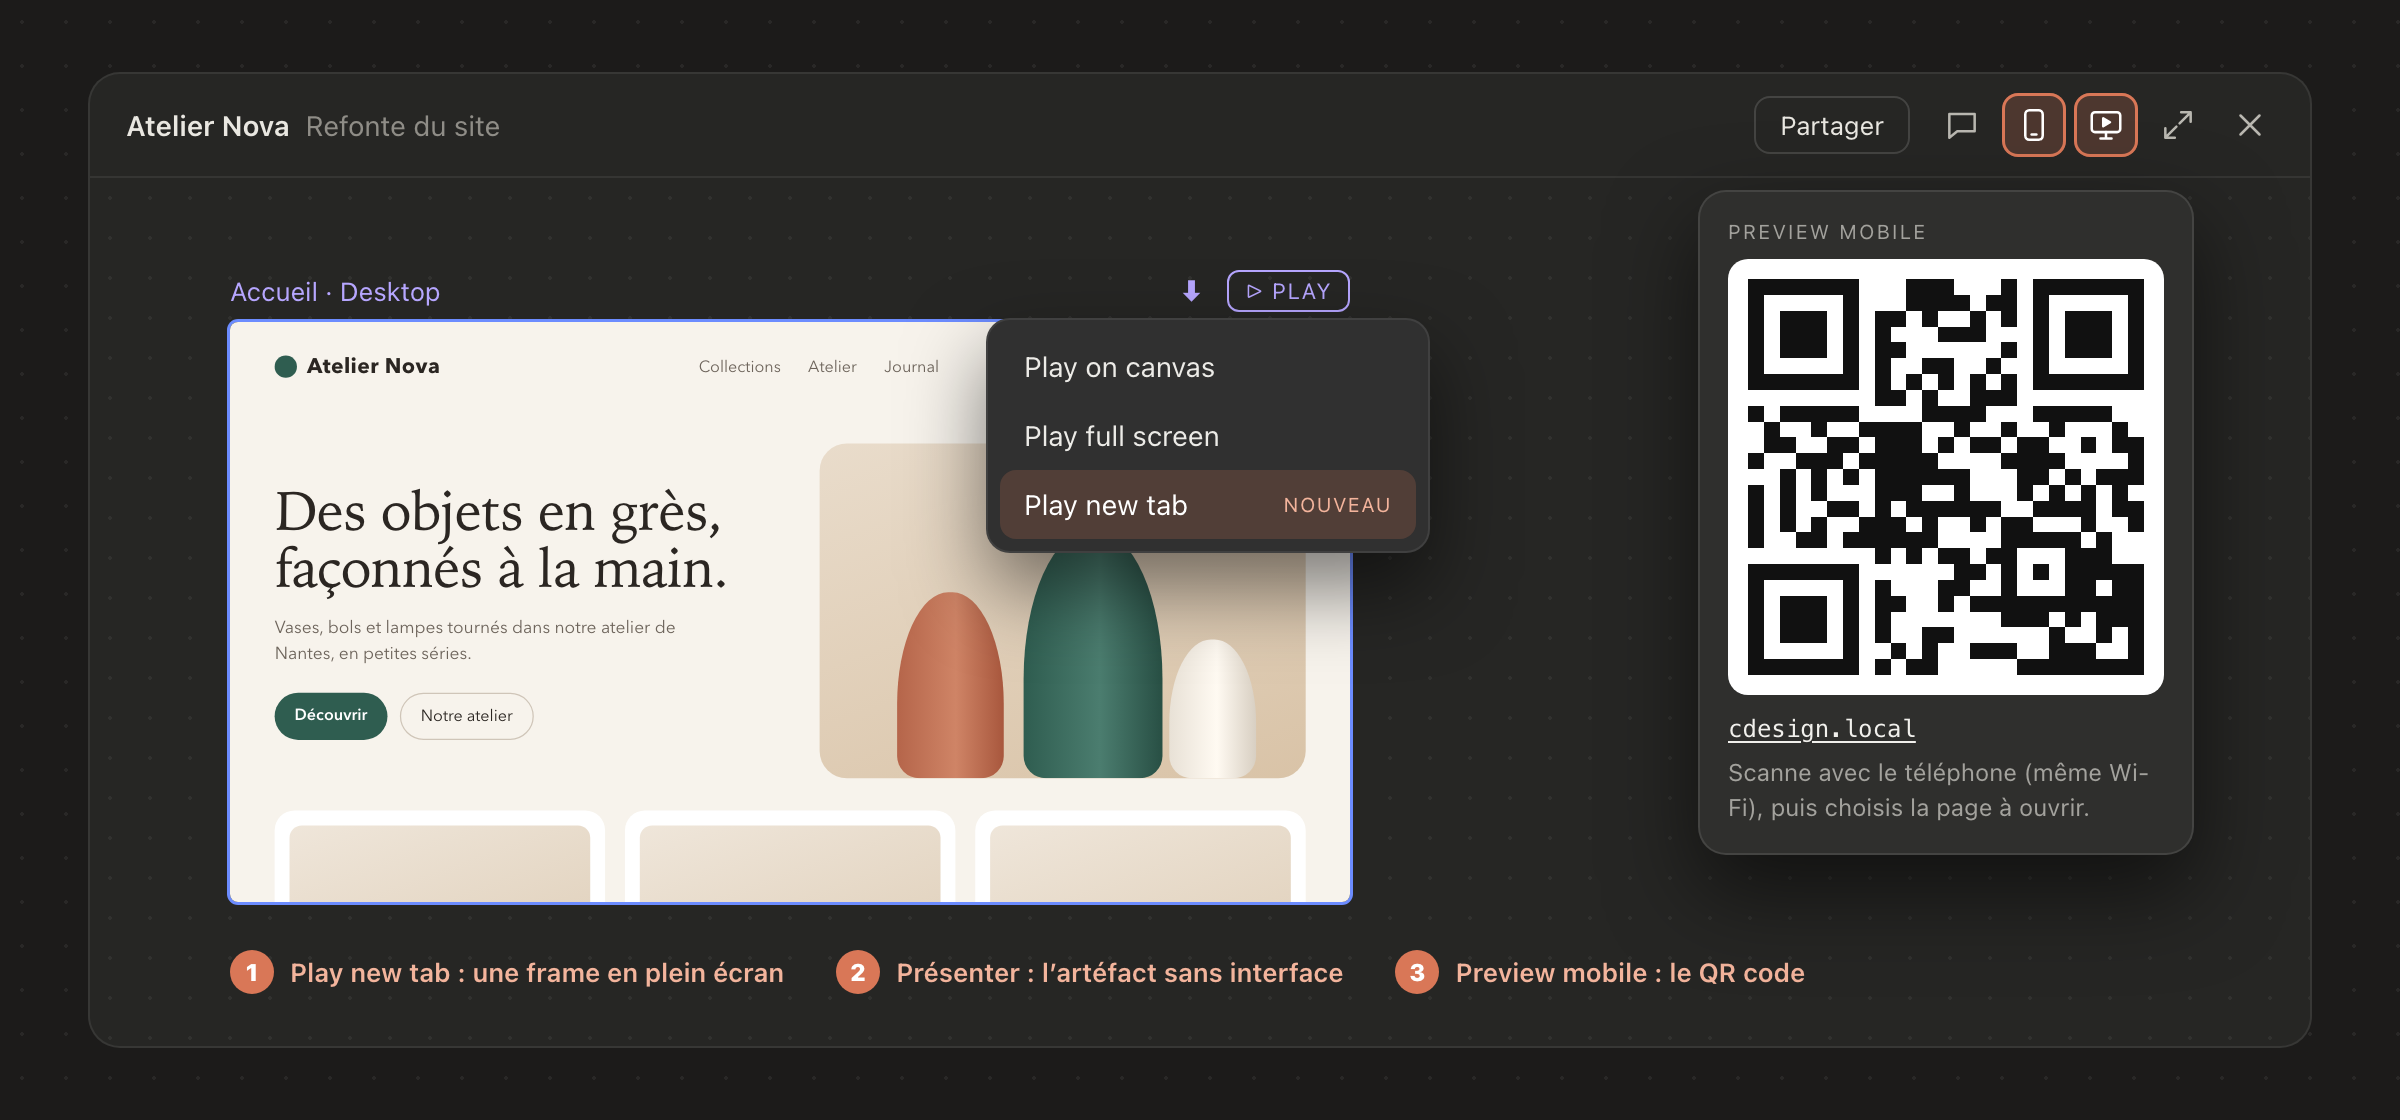
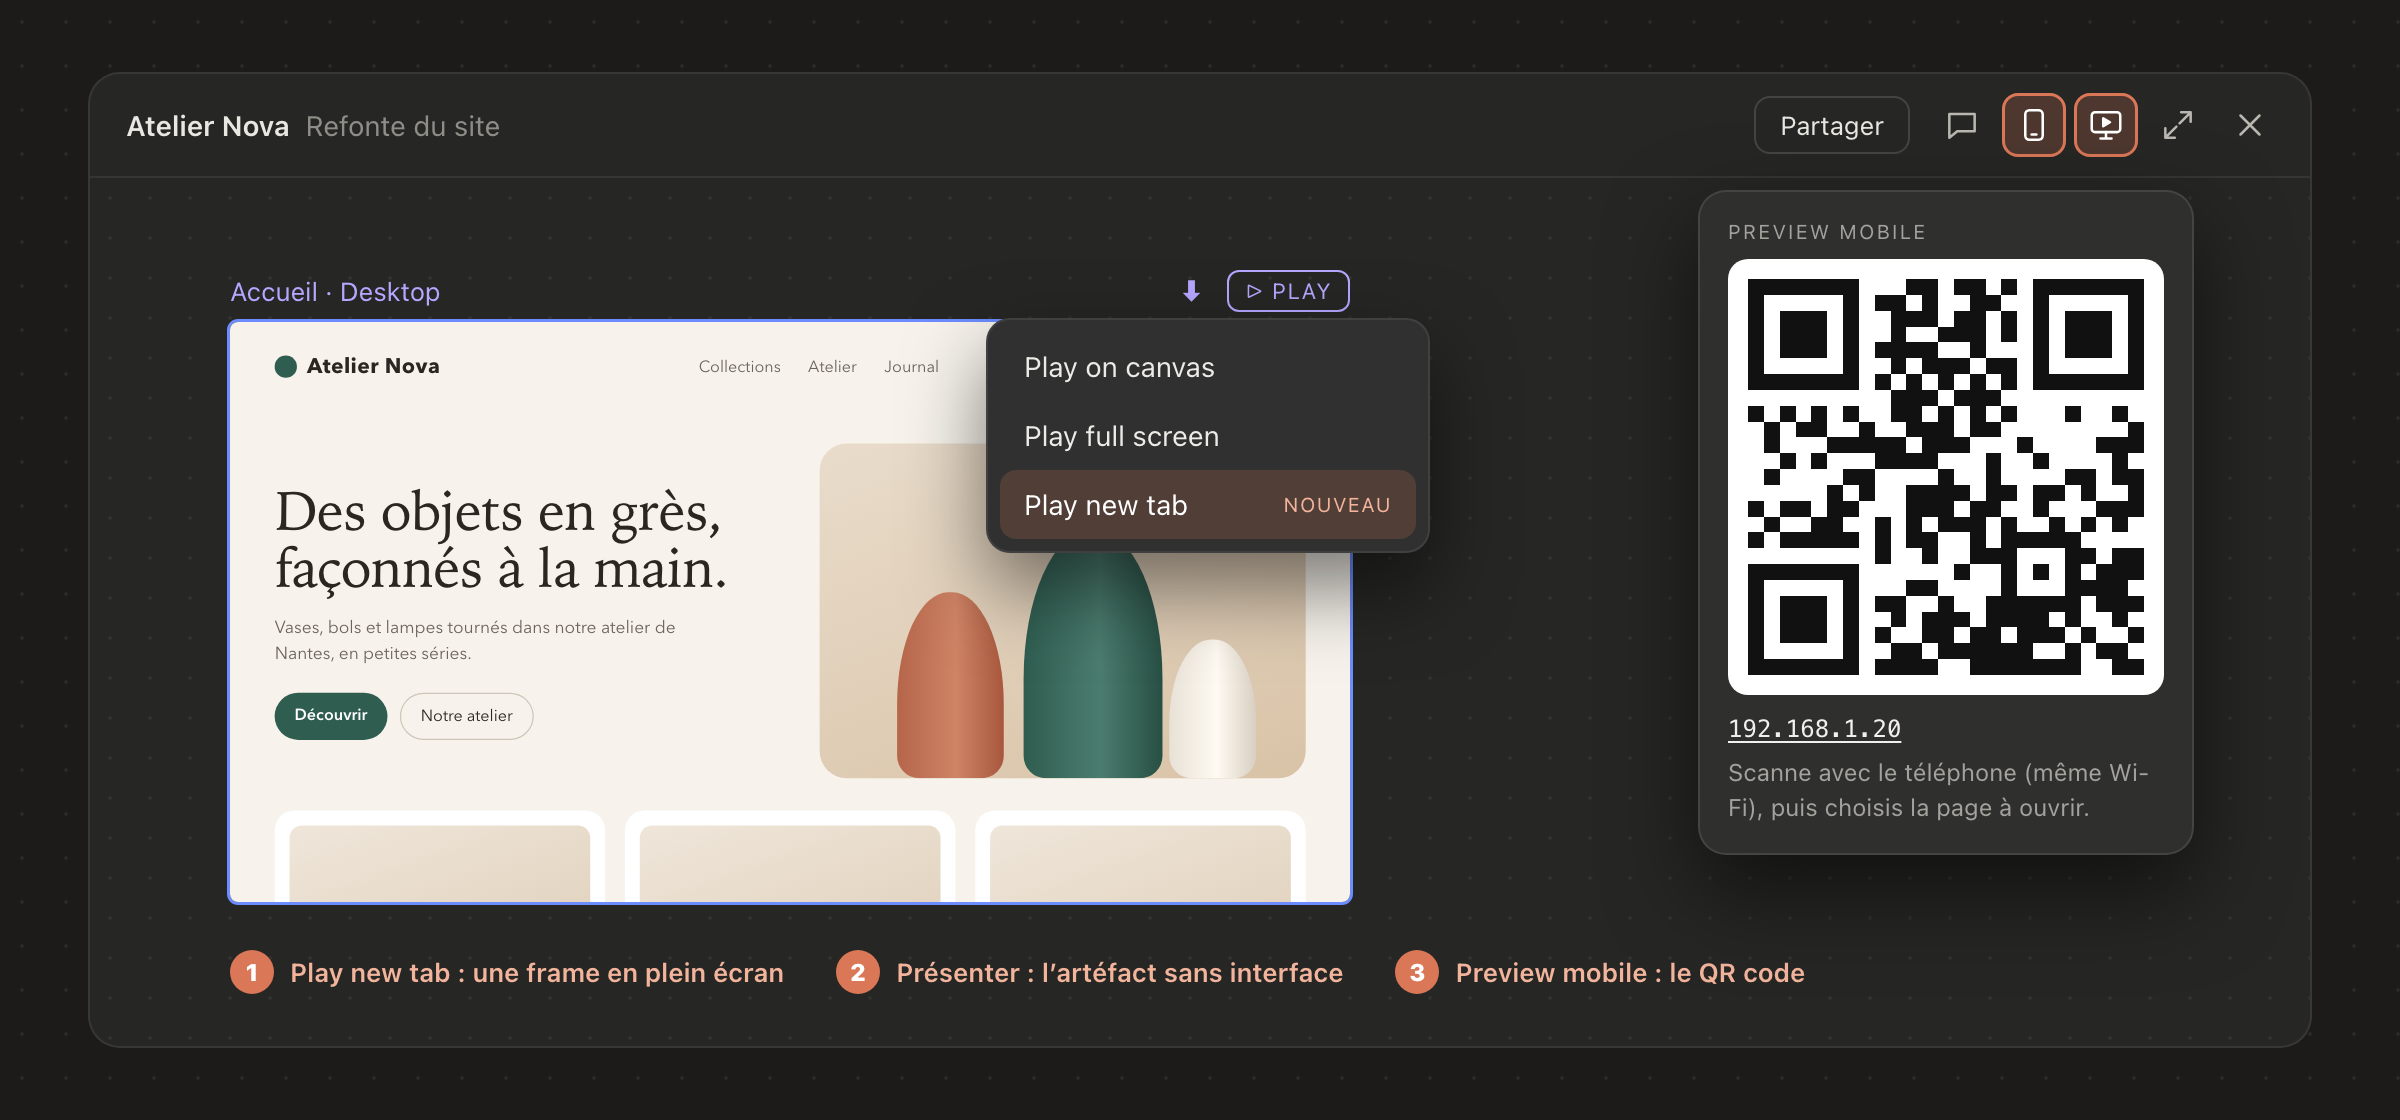
Retour à l'adresse IP : suppression de cdesign.local
Le nom .local n'était pas résolu par les autres appareils du réseau.
On garde l'adresse IP du Mac (port 80 si possible), qui marche partout :
plus de mDNS ni de dns-sd, plus de réglage de nom, dépendance
multicast-dns retirée ; README, INSTALL et visuels mis à jour.

Changed region(s): [[0.7188, 0.25, 0.9062, 0.625], [0.7188, 0.625, 0.8125, 0.6562]]

diff --git a/settings.html b/settings.html
@@ -34,10 +34,9 @@ npm start</code></pre>
       <div class="qr" id="qr" role="img" aria-label="QR code de l’accueil"></div>
       <div>
         <h2>Ouvrir sur un téléphone</h2>
-        <p class="muted">Scanne le QR code avec n’importe quel téléphone connecté au même Wi-Fi. Il marche partout, Android compris.</p>
+        <p class="muted">Scanne le QR code avec n’importe quel téléphone connecté au même Wi-Fi, ou tape l’adresse dans son navigateur.</p>
         <p class="label">Adresse à taper</p>
         <p class="url"><a id="url" href="#" target="_blank" rel="noopener"></a></p>
-        <p class="muted small" id="ip"></p>
         <div class="row">
           <button class="btn" id="copy" type="button">Copier l’adresse</button>
           <a class="btn ghost" id="open-home" href="#" target="_blank" rel="noopener">Ouvrir l’accueil</a>
@@ -48,17 +47,6 @@ npm start</code></pre>
     <!-- Réglages -->
     <section class="card">
       <h2>Réglages</h2>
-
-      <form class="field" id="host-form">
-        <label for="host">Nom de l’adresse</label>
-        <div class="inline">
-          <span class="affix">http://</span>
-          <input id="host" name="host" autocomplete="off" spellcheck="false" maxlength="40" pattern="[a-zA-Z0-9-]+" required>
-          <span class="affix">.local</span>
-          <button class="btn" type="submit">Enregistrer</button>
-        </div>
-        <p class="hint" id="host-hint">Lettres, chiffres et tirets. Après un changement, rescanne le QR code.</p>
-      </form>
 
       <div class="field">
         <label>Dossier des exports</label>

diff --git a/settings.js b/settings.js
@@ -47,14 +47,6 @@ function render(c) {
   $('url').textContent = shortUrl(c.url);
   $('url').href = c.url;
   $('open-home').href = c.url;
-  $('ip').textContent = `Adresse IP : ${shortUrl(c.ipUrl)} (si un appareil ne reconnaît pas le nom)`;
-
-  // Nom de l'adresse
-  if (document.activeElement !== $('host')) $('host').value = c.host;
-  $('host').disabled = c.hostLocked;
-  $('host-hint').textContent = c.hostLocked
-    ? 'Fixé par la variable SUPERDESIGN_HOST au lancement du serveur.'
-    : 'Lettres, chiffres et tirets. Après un changement, rescanne le QR code.';
 
   // Dossier
   $('dir').textContent = c.dir;
@@ -175,11 +167,6 @@ async function act(fn, okText) {
     busy = false;
   }
 }
-
-$('host-form').addEventListener('submit', (e) => {
-  e.preventDefault();
-  act(() => api('/api/config', { host: $('host').value }), 'Nom enregistré. Rescanne le QR code sur les téléphones.');
-});
 
 $('copy').addEventListener('click', async () => {
   try {

diff --git a/background.js b/background.js
@@ -8,8 +8,8 @@ async function qr() {
   try {
     const res = await fetch(`${SERVER}/api/qr`, { cache: 'no-store' });
     if (!res.ok) throw new Error(`HTTP ${res.status}`);
-    const { url, ipUrl, svg, dir } = await res.json();
-    return { ok: true, url, ipUrl, svg, dir };
+    const { url, svg, dir } = await res.json();
+    return { ok: true, url, svg, dir };
   } catch (e) {
     return { ok: false, error: e.message || String(e) };
   }

diff --git a/CLAUDE.md b/CLAUDE.md
@@ -17,8 +17,8 @@ Objectif produit : marcher pour tout le monde sur le réseau, sans manipulation 
 - `manifest.json` : deux content scripts, un sur `https://claude.ai/*` (`document_start`, avec `claude.css`), un sur `https://*.claudeusercontent.com/*` (`document_idle`, `match_about_blank`). Les deux ont `all_frames`.
 - `content.js` : `runOnClaude()` (pages claude.ai) ou `runInViewerFrame()` (iframe du viewer).
 - `claude.css` : masque `#hdr`, `#top-edge`, `#hdr-degraded` et remonte `body > main` quand `html[data-superdesign="on"]`.
-- `background.js` : répond au message `superdesign-qr` en interrogeant `http://localhost:4321/api/qr` (`{ url, ipUrl, svg, dir }`).
-- `server/server.mjs` : serveur Node (dépendances : `qrcode`, `multicast-dns`), lancé avec `cd server && npm start`. Port 4321 et, si possible, port 80 aussi (macOS/Windows), sur `0.0.0.0`. S'annonce en mDNS sous `cdesign.local` (`SUPERDESIGN_HOST` pour changer). Sur macOS, **par le service Bonjour du système** (`dns-sd -P "Super CDesign" _http._tcp local 4321 cdesign.local <IP>`, processus enfant republié si l'IP ou le nom change, tué à la sortie) : un répondeur maison sur le port 5353 (`multicast-dns`) marchait depuis le Mac mais n'était pas vu par les autres appareils. Ailleurs (Windows, Linux) : `multicast-dns`, qui répond aux requêtes A et par un NSEC aux requêtes AAAA (sinon 5 s d'attente côté client). Le QR code encode `ipUrl` (marche partout, Android compris) ; l'accueil, ouvert par l'IP, teste `http://cdesign.local/api/ping` (CORS *) et bascule dessus s'il répond. Routes réservées à l'extension (requête locale ET Origin absent ou `chrome-extension://`) : `GET /api/qr`, `GET|POST /api/config` (`host`, `dir`, appliqués à chaud : mDNS réannoncé, dossier resurveillé), `POST /api/open-folder`, `POST /api/pick-folder` (sélecteur Finder via osascript), `POST /api/delete` (`{project, file?}` : la page vient du zip/HTML déposé, `origin` ; page seule → tout le projet), `POST /api/delete-all` (vide le dossier des exports), `POST /api/autostart` (agent launchd `com.supercdesign.server`, `~/Library/LaunchAgents`, logs `~/Library/Logs/super-cdesign.log` ; à l'activation le serveur libère ses ports et launchd le relance). Suppression : vers `~/.Trash` sur macOS (rename, récupérable), définitive ailleurs ; jamais hors du dossier des exports. Réglages dans `server/config.json` (exclu de git) ; les variables d'environnement priment. Les sous-dossiers de projet n'importent que zips, HTML et dossiers de ressources (jamais un dossier quelconque) ; dossier personnel et racine refusés comme dossier d'exports. Surveille `super-cdesign-exports/` à la racine du projet (variable `SUPERDESIGN_DIR` pour en changer) ; sites construits dans `server/.cache/<projet>/`. Les deux sont exclus de git (designs clients, dépôt public).
+- `background.js` : répond au message `superdesign-qr` en interrogeant `http://localhost:4321/api/qr` (`{ url, svg, dir }`).
+- `server/server.mjs` : serveur Node (dépendance unique : `qrcode`), lancé avec `cd server && npm start`. Port 4321 et, si possible, port 80 aussi (macOS/Windows), sur `0.0.0.0`. Adresse = IP du Mac sur le Wi-Fi (`http://192.168.x.x/`), encodée dans le QR code. **Pas de nom `.local`** : essayé (mDNS via `multicast-dns`, puis `dns-sd -P`), pas vu par les autres appareils du réseau de l'utilisateur ; abandonné à sa demande (« on garde l'adresse IP »). Routes réservées à l'extension (requête locale ET Origin absent ou `chrome-extension://`) : `GET /api/qr`, `GET|POST /api/config` (`dir`, appliqué à chaud : dossier resurveillé), `POST /api/open-folder`, `POST /api/pick-folder` (sélecteur Finder via osascript), `POST /api/delete` (`{project, file?}` : la page vient du zip/HTML déposé, `origin` ; page seule → tout le projet), `POST /api/delete-all` (vide le dossier des exports), `POST /api/autostart` (agent launchd `com.supercdesign.server`, `~/Library/LaunchAgents`, logs `~/Library/Logs/super-cdesign.log` ; à l'activation le serveur libère ses ports et launchd le relance). Suppression : vers `~/.Trash` sur macOS (rename, récupérable), définitive ailleurs ; jamais hors du dossier des exports. Réglages dans `server/config.json` (exclu de git) ; les variables d'environnement priment. Les sous-dossiers de projet n'importent que zips, HTML et dossiers de ressources (jamais un dossier quelconque) ; dossier personnel et racine refusés comme dossier d'exports. Surveille `super-cdesign-exports/` à la racine du projet (variable `SUPERDESIGN_DIR` pour en changer) ; sites construits dans `server/.cache/<projet>/`. Les deux sont exclus de git (designs clients, dépôt public).
 - `icons/` : générées avec Pillow (pas de source SVG dans le dépôt).
 - `README.md` (public, en français), `INSTALL.md` (guide d'installation écrit pour les assistants IA : demander d'abord le dossier d'installation), `docs/hero.png`, `docs/dans-claude.png`, `docs/preview-mobile.png` (visuels du README, générés depuis des maquettes HTML avec un faux site « Atelier Nova » : ne jamais y mettre de design client), `docs/install-*.svg` (boutons « Installer avec Claude / ChatGPT » du README, logos Simple Icons, qui ouvrent claude.ai/new?q= et chatgpt.com/?q= avec la demande préremplie). Garder le texte de la demande identique dans les deux liens et dans le bloc à copier du README.
 

diff --git a/README.md b/README.md
@@ -45,8 +45,8 @@ Le bouton et l'option n'apparaissent que pour un artéfact **publié** (il faut 
 <p align="center"><img src="docs/preview-mobile.png" alt="Preview mobile : les étapes et l'accueil sur le téléphone avec un aperçu de chaque page" width="100%"></p>
 
 - Un **petit serveur local** sert sur ton Wi-Fi les exports HTML de tes designs.
-- Le **bouton téléphone** dans l'en-tête du panneau d'artéfact affiche son **QR code** : n'importe quel téléphone du Wi-Fi le scanne, Android compris. L'adresse à taper est simplement **`http://cdesign.local/`**.
-- **Un clic sur l'icône de l'extension** ouvre la page de réglages : état du serveur, QR code, projets, dossier des exports (l'ouvrir, en choisir un autre), nom de l'adresse, et **démarrage automatique avec le Mac**.
+- Le **bouton téléphone** dans l'en-tête du panneau d'artéfact affiche son **QR code** : n'importe quel téléphone du même Wi-Fi le scanne. Tu peux aussi taper l'adresse du Mac, par ex. `http://192.168.1.20/`.
+- **Un clic sur l'icône de l'extension** ouvre la page de réglages : état du serveur, QR code, projets, dossier des exports (l'ouvrir, en choisir un autre), aperçus et suppression des pages, et **démarrage automatique avec le Mac**.
 - Sur le téléphone, l'accueil montre **tes projets avec un aperçu de chaque page** ; touche une page pour l'ouvrir en plein écran.
 - **Les liens entre pages fonctionnent** quand les pages sont dans le même projet.
 - Quand tu remplaces un export, **le téléphone se recharge tout seul**.
@@ -73,14 +73,12 @@ npm install
 npm start
 ```
 
-Le terminal affiche l'adresse du serveur, **`http://cdesign.local/`** (et l'adresse IP en secours), et le dossier surveillé : `super-cdesign-exports/`, à la racine du projet (créé au premier lancement). Laisse le terminal ouvert.
+Le terminal affiche l'adresse du serveur (l'adresse IP du Mac sur le Wi-Fi, par ex. `http://192.168.1.20/`) et le dossier surveillé : `super-cdesign-exports/`, à la racine du projet (créé au premier lancement). Laisse le terminal ouvert.
 
 - Pour surveiller un autre dossier : `SUPERDESIGN_DIR=/chemin/vers/dossier npm start`.
-- Le serveur s'annonce sur le Wi-Fi sous le nom `cdesign.local` (Bonjour / mDNS). Pour un autre nom : `SUPERDESIGN_HOST=monnom npm start` → `monnom.local`.
-- Il écoute sur le port 4321 et, quand c'est possible (macOS, Windows), aussi sur le port 80 : d'où l'adresse sans `:4321`. Sous Linux, ce sera `http://cdesign.local:4321/`.
-- Le QR code pointe vers l'adresse IP du Mac, que tous les téléphones savent ouvrir ; l'accueil bascule ensuite tout seul sur `cdesign.local` quand l'appareil reconnaît ce nom (iPhone, Mac, Windows, Linux ; certains Android non).
+- Il écoute sur le port 4321 et, quand c'est possible (macOS, Windows), aussi sur le port 80 : d'où l'adresse sans `:4321`. Sous Linux, ce sera `http://<IP>:4321/`.
 - **Démarrage automatique (macOS)** : clique sur l'icône de l'extension, puis active « Démarrer avec le Mac ». Le serveur se lance alors à chaque ouverture de session et redémarre s'il s'arrête : plus besoin de terminal.
-- Le dossier des exports et le nom de l'adresse se changent aussi depuis cette page (enregistrés dans `server/config.json`).
+- Le dossier des exports se change aussi depuis cette page (enregistré dans `server/config.json`).
 - Pour changer de port : `PORT=5000 npm start` (le bouton de l'extension attend le port 4321).
 - Au premier lancement, macOS peut demander d'autoriser les connexions entrantes pour `node` : accepte, c'est ce qui permet au téléphone de joindre l'ordinateur.
 

diff --git a/INSTALL.md b/INSTALL.md
@@ -79,9 +79,8 @@ npm start
   ```bash
   curl -s http://localhost:4321/api/qr
   ```
-  La réponse est un JSON avec `url` (normalement `http://cdesign.local/`), `ipUrl` (l'adresse IP de secours) et `dir` (le dossier surveillé).
-- Le terminal affiche l'adresse du serveur, `http://cdesign.local/` (annoncée sur le Wi-Fi par Bonjour / mDNS, avec l'adresse IP en secours), et le dossier surveillé : `<DOSSIER>/super-cdesign-exports/`, créé automatiquement.
-- Si un téléphone Android n'ouvre pas `cdesign.local`, il faut utiliser l'adresse IP affichée en secours.
+  La réponse est un JSON avec `url` (l'adresse du serveur sur le Wi-Fi, par ex. `http://192.168.1.20/`) et `dir` (le dossier surveillé).
+- Le terminal affiche l'adresse du serveur (l'adresse IP de l'ordinateur sur le Wi-Fi) et le dossier surveillé : `<DOSSIER>/super-cdesign-exports/`, créé automatiquement.
 - Au premier lancement, macOS (ou le pare-feu Windows) peut demander d'autoriser les connexions entrantes pour `node` : l'utilisateur doit accepter, sinon le téléphone ne pourra pas joindre l'ordinateur.
 
 Explique ensuite à l'utilisateur comment s'en servir :
@@ -97,7 +96,7 @@ Explique ensuite à l'utilisateur comment s'en servir :
 
 Sans démarrage automatique (Windows, Linux, ou si l'utilisateur refuse), il relance le serveur avec `cd "<DOSSIER>/server" && npm start`.
 
-La page de réglages (clic sur l'icône de l'extension) permet aussi d'ouvrir le dossier des exports, d'en choisir un autre et de changer le nom de l'adresse.
+La page de réglages (clic sur l'icône de l'extension) permet aussi d'ouvrir le dossier des exports, d'en choisir un autre, et de voir ou supprimer les pages.
 
 ## Étape 7 — Résumé final
 
